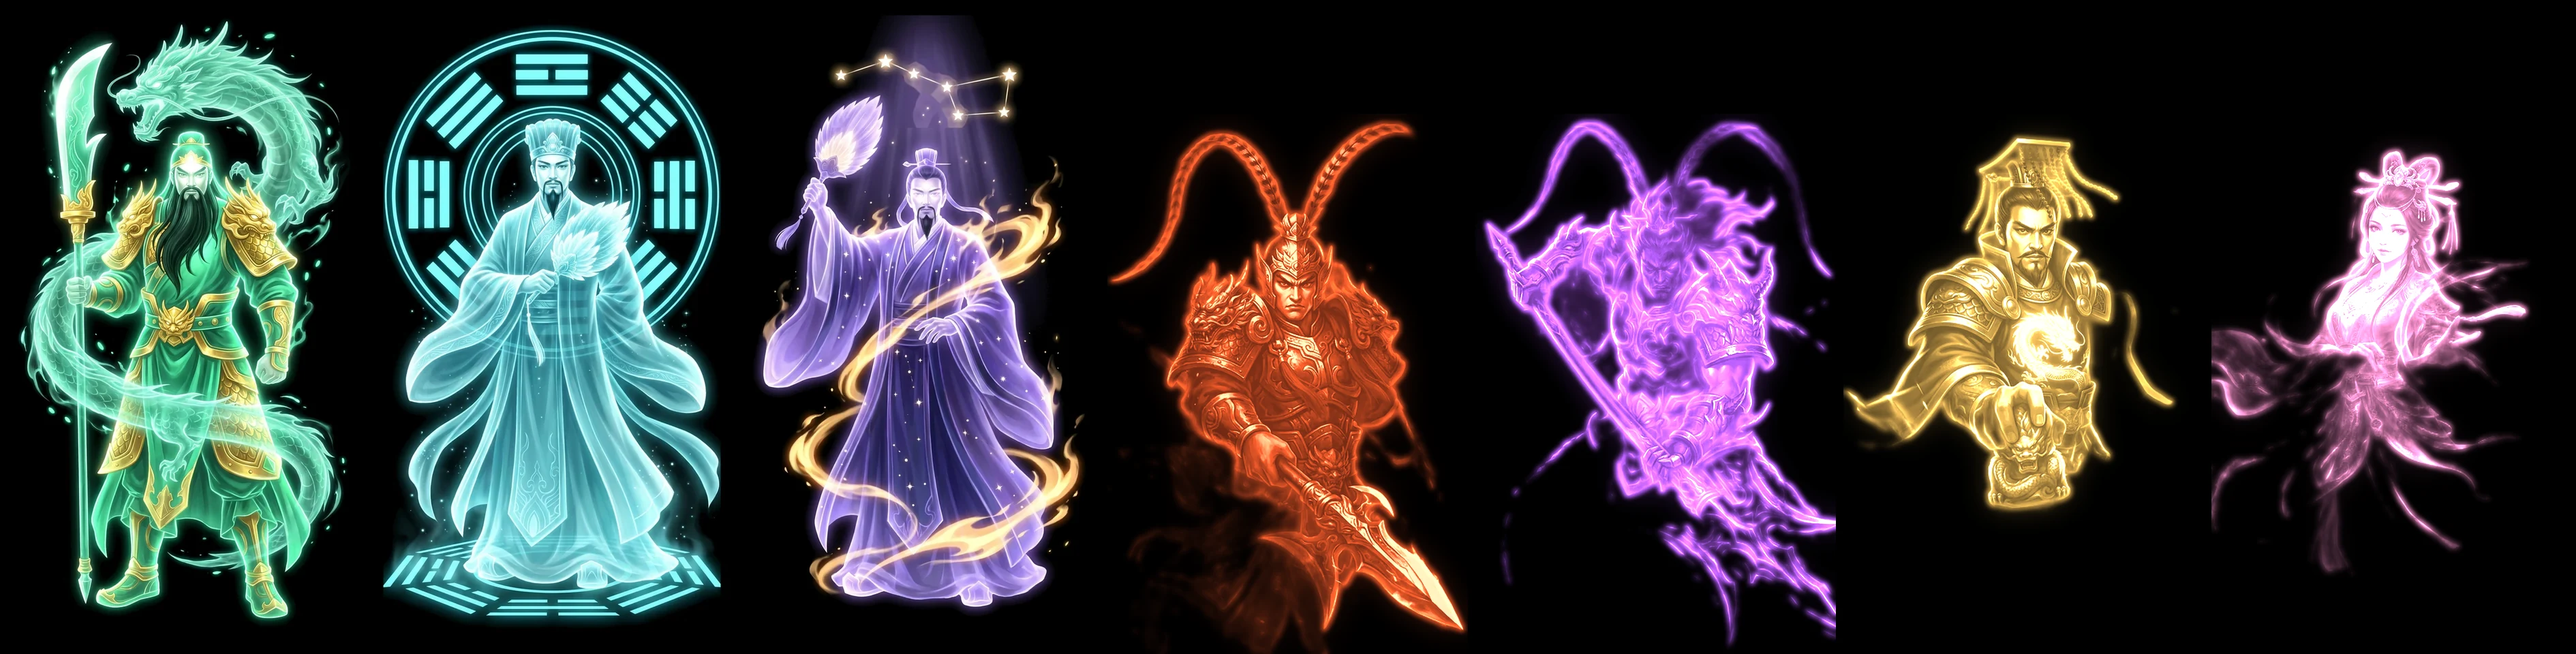
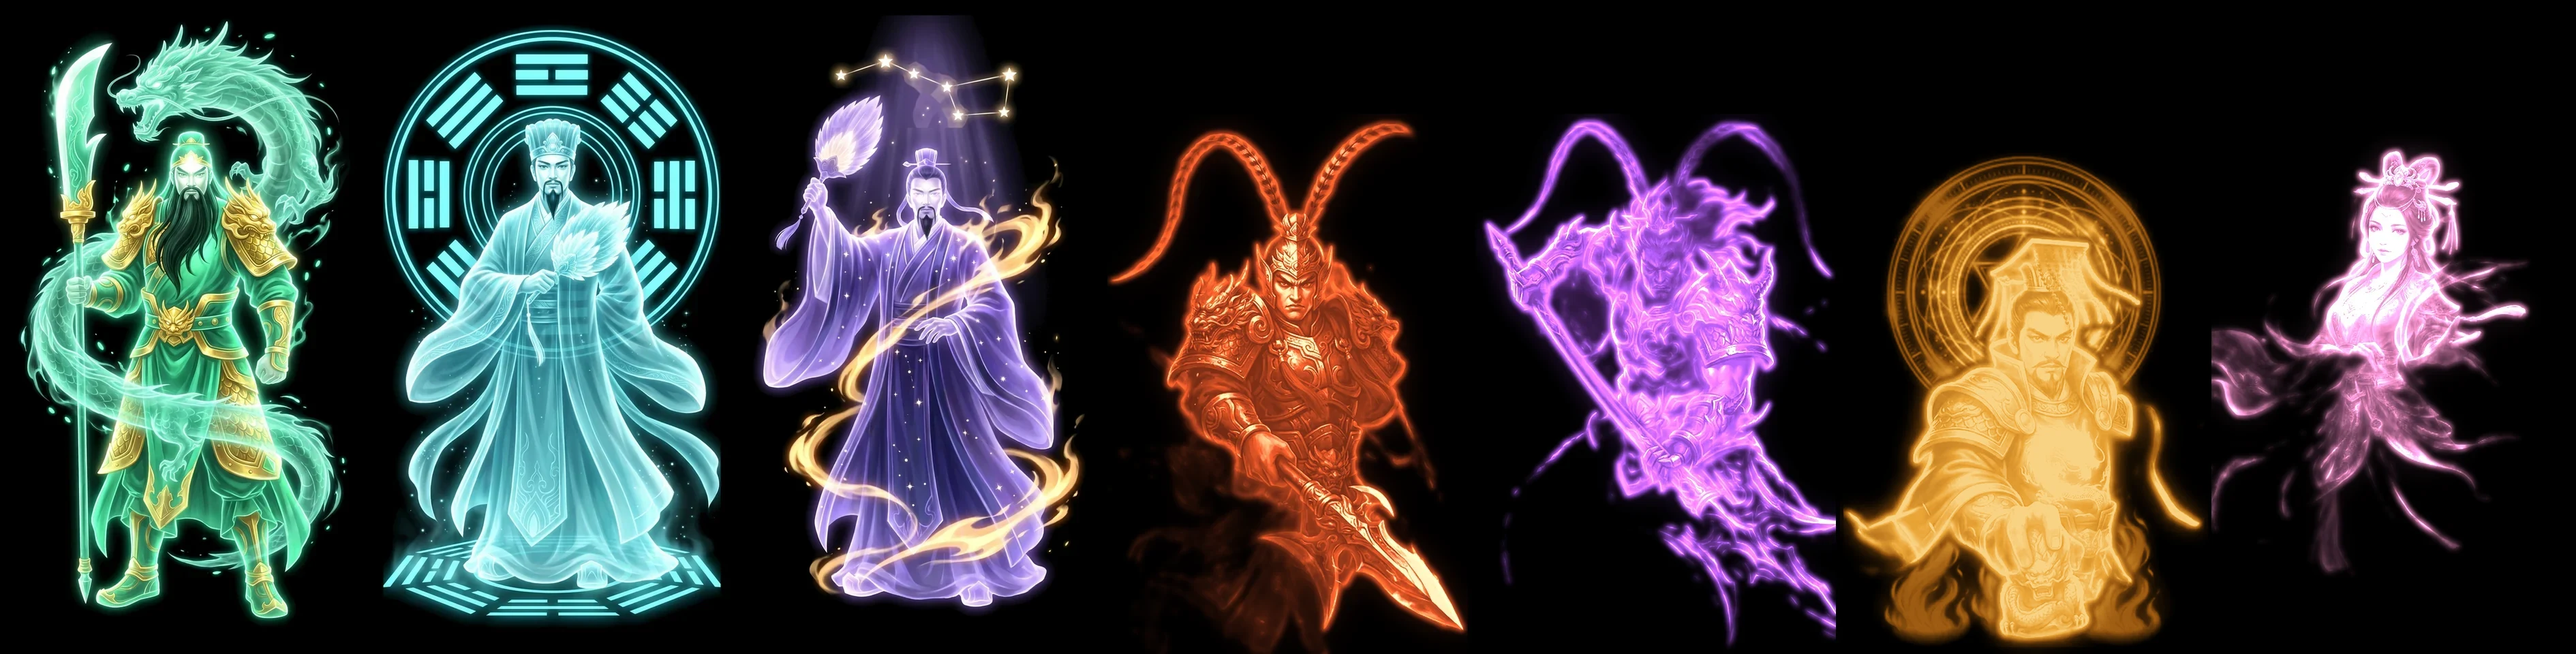
V209 play build
Claude-Session: https://claude.ai/code/session_01PuSXu7AoyMaVDfh5fsVkbo

Changed region(s): [[0.718, 0.1875, 0.8741, 1.0]]

diff --git a/index.html b/index.html
@@ -10262,10 +10262,18 @@ var F5NE={a:{inf:'Phoenix Wing Guard',cav:'Phoenix Riders',arc:'Phoenix Feather 
  zhaoyun_a:[.4,.08,.26,.2],caocao_a:[.33,.13,.26,.21],zhangfei_a:[.38,.11,.28,.23],diaochan_a:[.41,.13,.24,.18]};for(var k in F)SKFACE[k]=F[k]}catch(e){}})();
 /* Skin statues: ONE atlas art/skins/statues.webp (3 × 540×960 on black, drawn additively by sgSkin). sigImg('statue_<skin>') cuts its cell. */
 var STA185={guanyu_a:0,zhugeliang_a:1,zhugeliang_b:2,lubu_a:3,lubu_b:4,caocao_a:5,diaochan_a:6}/* V208: + Lữ Bố a/b, Tào Tháo, Điêu Thuyền statues (art agent) */,STAI185=null,STAC185={};
-(function(){try{var im=new Image();im.onload=function(){STAI185=im};im.onerror=function(){};im.src='art/skins/statues.webp?v=2'}catch(e){}})();
+(function(){try{var im=new Image();im.onload=function(){STAI185=im};im.onerror=function(){};im.src='art/skins/statues.webp?v=3'}catch(e){}})();
 (function(){if(typeof sigImg!=='function')return;var _sig185=sigImg;sigImg=function(g,n){try{if(n==='k_statue'&&g==='zhugeliang')return null;if(n&&n.indexOf('statue_')===0){var k=n.slice(7),i=STA185[k];
  if(i!==undefined){if(STAC185[k])return STAC185[k];if(!STAI185||!STAI185.naturalWidth)return null;var cv=document.createElement('canvas');cv.width=540;cv.height=960;
- cv.getContext('2d').drawImage(STAI185,i*540,0,540,960,0,0,540,960);cv.naturalWidth=540;cv.naturalHeight=960;cv.complete=true;STAC185[k]=cv;return cv}}}catch(e){}return _sig185(g,n)}})();
+ cv.getContext('2d').drawImage(STAI185,i*540,0,540,960,0,0,540,960);cv.naturalWidth=540;cv.naturalHeight=960;cv.complete=true;STAC185[k]=half209(cv,k)||cv;return STAC185[k]}}
+ if(n==='k_statue'&&HALF209[g+'_k']){var kk=g+'_k';if(STAC185[kk])return STAC185[kk];var m=_sig185(g,n);if(!m)return null;var h=half209(m,kk);if(h){STAC185[kk]=h;return h}return m}}catch(e){}return _sig185(g,n)}})();
+/* V209 (user 22:47 "if Lữ Bố and Cao Cao are half body then all statues must be half body"): full-body statues are cut at the waist and
+   sit at the bottom of the same frame, so every statue is a bust of the same size. Value = share of the image height kept from the top. */
+var HALF209={guanyu_a:.6,zhugeliang_a:.6,zhugeliang_b:.6,zhaoyun_k:.58,zhangfei_k:.56};
+function half209(im,k){try{var f=HALF209[k];if(!f)return null;var W=im.naturalWidth||im.width,H=im.naturalHeight||im.height,ch=Math.round(H*f),cv=document.createElement('canvas');cv.width=W;cv.height=H;var x=cv.getContext('2d');
+ x.drawImage(im,0,0,W,ch,0,H-ch,W,ch);x.globalCompositeOperation='destination-out';var g=x.createLinearGradient(0,H-ch*.26,0,H);g.addColorStop(0,'rgba(0,0,0,0)');g.addColorStop(1,'rgba(0,0,0,1)');x.fillStyle=g;x.fillRect(0,H-ch*.26,W,ch*.26);
+ cv.naturalWidth=W;cv.naturalHeight=H;cv.complete=true;return cv}catch(e){return null}}
+
 /* Fix (found in V185 testing): campaign star chests store hero fragments as rw.fr={gid:n}; tower300 treated rw.fr as a realm-frame number
    (rewardTxt threw on Chinh chiến, giveRw pushed the object into S.twFr). tower300 now checks typeof number; clean old saves here. */
 (function(){try{if(window.S&&S.twFr&&S.twFr.filter)S.twFr=S.twFr.filter(function(x){return typeof x==='number'})}catch(e){}})();
@@ -10844,7 +10852,7 @@ function u185Hero(){var sh=document.querySelector('#modal:not([hidden]) #sheet')
      | admin_edit (the owner changed the save: the phone adopts it, then acks) | banned (sync stops).
    - Player name: asked once (S.pname), stored in the save and in profiles.display_name so the owner can find players.
    - Every call is wrapped: no network, CSP or server error can stop the game (house rule: load/draw code never throws). */
-var BUILD='V208';
+var BUILD='V209';
 (function(){
 var SB='https://vsgncllldrzyppdwsjbq.supabase.co',PK='sb_publishable_ldlnj7mtPajOvvBMy4l4vg_8_yWgvHC',CK='bn-cloud-v1';
 var C=null,busy=false,lastTry=0,asked=false;
@@ -12336,12 +12344,20 @@ S2FX.zhaoyun_a={T:3400,pre:[['zhaoyun','comet'],['zhaoyun','spear'],['zhaoyun','
  return timeline(T,st)}};
 
 /* ---------- 7. Tào Tháo · Hiệp Thiên Tử Lệnh Chư Hầu: the edict unrolls, seals slam the cross, poison mist, a chain locks the strongest ---------- */
-S2FX.caocao_a={T:3600,play:function(a,ev,T){
+S2FX.caocao_a={ownStatue:1,T:3600,play:function(a,ev,T){
  var side=a.u.side,foe=side==='A'?'D':'A',F2=sgField(foe),F=sgField(side),hs=hitsOf(ev),U=uniq(hs),L=lander(a,ev),A0=P(a),lk=estFor(ev,'lock')[0],LK=lk&&BT.uds[lk]?P(BT.uds[lk]):null;
  var tg=U.map(function(t,i){var o=P(BT.uds[t.id]);o.t=t;o.at=.32+i*.045;return o}).filter(function(o){return o.d});
  var sy=Math.max(BT.H*.08,F2.y0-BT.rh*.7),sw=Math.min(BT.W*.86,F2.w*1.2);
  fx(T,function(c,p,t){var fo=1-seg(p,.9,1);
   dimAll(c,p,'18,6,30',.45);
+  /* V209: the Emperor-maker towers behind his troop — his gold statue rises out of a radiant wheel and gold flame, and flares each time a seal lands */
+  var up=side==='A'?-1:1,ca=cw(A0),dq=out(seg(p,0,.26))*(1-seg(p,.84,.97)),gh=Math.min(BT.H*.4,BT.rh*2.5),gy=A0.y+(up<0?-gh*.42:gh*.42)+(1-dq)*BT.rh*.5*(up<0?1:-1),
+   fl=tg.reduce(function(m,o){var z=seg(p,o.at,o.at+.12);return Math.max(m,z>0&&z<1?1-z:0)},0);
+  if(dq>0){var sx=Math.max(gh*.33,Math.min(BT.W-gh*.33,A0.x)),cy=gy-gh*.05;
+   c.save();c.globalCompositeOperation='source-over';var rg=c.createRadialGradient(sx,cy,0,sx,cy,gh*.6);rg.addColorStop(0,'rgba(18,8,2,'+(.62*dq)+')');rg.addColorStop(.7,'rgba(18,8,2,'+(.35*dq)+')');rg.addColorStop(1,'rgba(18,8,2,0)');c.fillStyle=rg;c.fillRect(sx-gh*.6,cy-gh*.6,gh*1.2,gh*1.2);c.restore();
+   pc(c,'M',22,sx,gy-gh*.2,gh*.8*(1+.04*Math.sin(t/260)),.28*dq+.25*fl,t/1600,1,'255,200,100');
+   stat(c,'caocao_a',sx,gy+gh*.5,gh*1.1*(.97+.03*Math.sin(t/320)),dq*(.8+.2*fl));
+   c.save();c.globalCompositeOperation='lighter';for(var m=0;m<12;m++){var ph=((t/1400)+m/12)%1;glow(c,sx+Math.sin(m*2.4+t/700)*gh*.3,gy+gh*.45-ph*gh,ca*.04,'255,215,120',.7*dq*(1-ph))}c.restore()}
   /* golden imperial edict unrolls across the sky (blank silk) */
   var uq=out(seg(p,.02,.24))*fo;if(uq>0&&!S2P(c,'caocao_a',0,BT.W/2,sy,sw*uq,uq,0,.35)){var w=sw*uq,h=BT.rh*.55,x0=BT.W/2-w/2;
    c.save();c.globalCompositeOperation='source-over';var sg=c.createLinearGradient(0,sy-h/2,0,sy+h/2);sg.addColorStop(0,'rgba(232,190,90,'+(.95*uq)+')');sg.addColorStop(.5,'rgba(255,234,160,'+(.95*uq)+')');sg.addColorStop(1,'rgba(200,150,60,'+(.95*uq)+')');c.fillStyle=sg;c.fillRect(x0,sy-h/2,w,h);
@@ -12463,6 +12479,8 @@ var F204SR={shu:'weiyan',wei:'xuhuang',wu:'ganning'};
  if(typeof GBRS!=='undefined')GBRS.lord=['inf','cav'];
  /* code-drawn look until the art agent paints his portrait */
  if(typeof LOOKS!=='undefined'&&!LOOKS.lord){var lk=genericLook('inf','tl');lk.robe='#5d6f86';lk.hc='#3a4656';lk.beard='moust';LOOKS.lord=lk}
+/* V209 (art agent): painted Chủ Công portrait (design C) */
+try{if(typeof GART!=='undefined')GART.lord={src:heroArtPath('lord','portrait'),sm:heroArtPath('lord','portrait_small'),pos:'50% 14%',face:[.40,.11,.28,.17]}}catch(e){}
  if(typeof SPL!=='undefined'&&!SPL.lord){var b=SPL.chuthuong||{};SPL.lord=Object.assign({},b,{aura:'#a9c4e6',aura2:'#ffffff',bg:'#141c28',robe:'#4a5c74',robe2:'#2a3546',trim:'#d9b45a',plume:'#a9c4e6',band:'#4a5c74',rar:'R',scar:0,old:0})}
  if(typeof FACN!=='undefined'&&!FACN.tl)FACN.tl='Tự Lập';
  /* styles: intro button, reward line, locked world tab */
